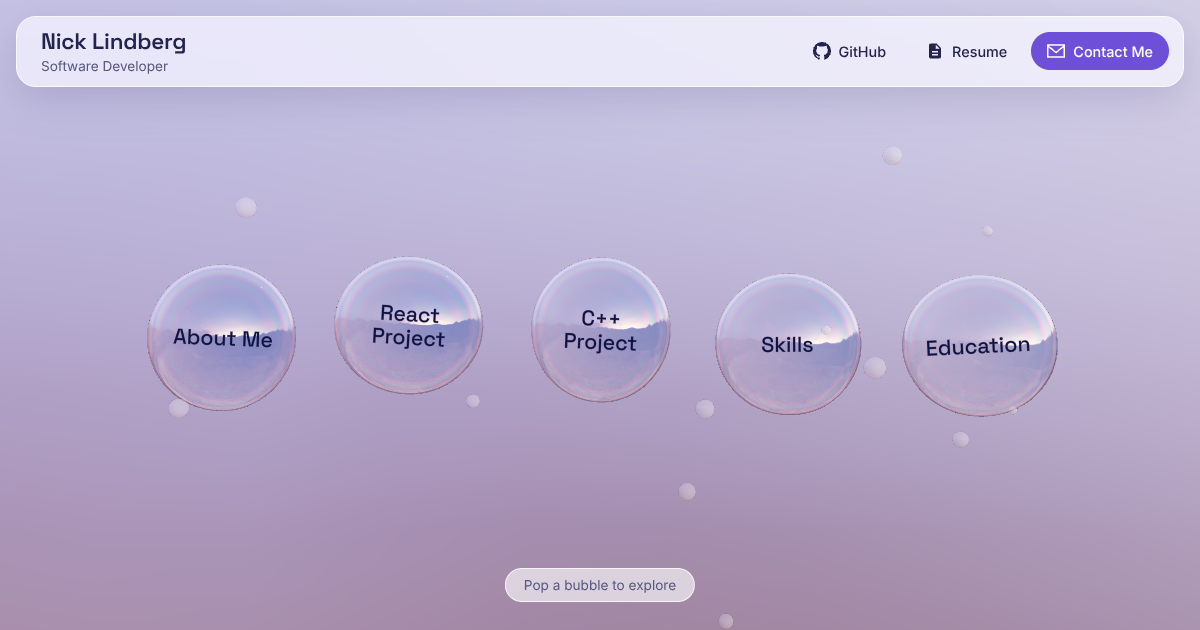
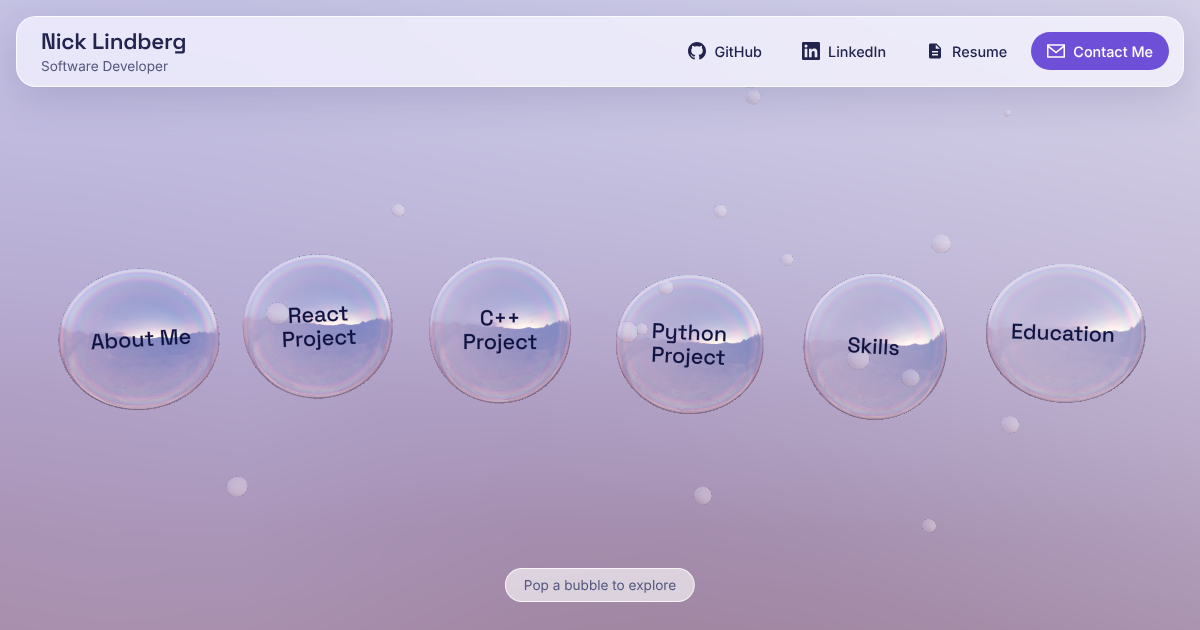
Feature Bracelet Studio as a Python Project bubble
Adds a sixth bubble for Bracelet Studio, using Nick's description. Wide
screens that can't fit six bubbles in one row now use the three-column
grid. Tests look sections up by label instead of by position, and the
share image shows the new bubble.

Claude-Session: https://claude.ai/code/session_018U5VzgtaHwiLeFrsMtNS7Z

diff --git a/portfoli_webpage/src/components/ContentPanel/ContentPanel.test.jsx b/portfoli_webpage/src/components/ContentPanel/ContentPanel.test.jsx
@@ -1,6 +1,9 @@
 import { render, screen, fireEvent } from '@testing-library/react';
 import { vi } from 'vitest';
 import ContentPanel from './ContentPanel';
+import { sections } from '../../content';
+
+const at = (label) => sections.findIndex((s) => s.label === label);
 
 test('shows the selected section with its stack and neighbours', () => {
   const onNavigate = vi.fn();
@@ -22,7 +25,7 @@ test('wraps around and closes with Back or Escape', () => {
   render(<ContentPanel index={0} onClose={onClose} onNavigate={onNavigate} />);
 
   fireEvent.keyDown(window, { key: 'ArrowLeft' });
-  expect(onNavigate).toHaveBeenCalledWith(4, 'prev');
+  expect(onNavigate).toHaveBeenCalledWith(sections.length - 1, 'prev');
 
   fireEvent.click(screen.getByRole('button', { name: 'Back' }));
   fireEvent.keyDown(window, { key: 'Escape' });
@@ -30,14 +33,14 @@ test('wraps around and closes with Back or Escape', () => {
 });
 
 test('lists both degrees in Education', () => {
-  render(<ContentPanel index={4} onClose={() => {}} onNavigate={() => {}} />);
+  render(<ContentPanel index={at('Education')} onClose={() => {}} onNavigate={() => {}} />);
   expect(screen.getByText('Michigan State University')).toBeInTheDocument();
   expect(screen.getByText('Northern Michigan University')).toBeInTheDocument();
   expect(screen.getByText('In progress, 2026')).toBeInTheDocument();
 });
 
 test('shows honors and relevant coursework in Education', () => {
-  render(<ContentPanel index={4} onClose={() => {}} onNavigate={() => {}} />);
+  render(<ContentPanel index={at('Education')} onClose={() => {}} onNavigate={() => {}} />);
   expect(screen.getByRole('list', { name: 'Honors' })).toHaveTextContent('Dean’s List');
   expect(screen.getByText('Parallel and Distributed Processing')).toBeInTheDocument();
 });
@@ -54,14 +57,14 @@ test('shows the merge sort visualizer in the C++ project', () => {
 });
 
 test('opens as a dialog with focus on the section heading', () => {
-  render(<ContentPanel index={3} onClose={() => {}} onNavigate={() => {}} />);
+  render(<ContentPanel index={at('Skills')} onClose={() => {}} onNavigate={() => {}} />);
   expect(screen.getByRole('dialog', { name: 'Skills' })).toBeInTheDocument();
   expect(screen.getByRole('heading', { name: 'Skills' })).toHaveFocus();
 });
 
 test('keeps focus on the arrow used to move between sections', () => {
   render(<ContentPanel index={2} entrance="next" onClose={() => {}} onNavigate={() => {}} />);
-  expect(screen.getByRole('button', { name: /Skills/ })).toHaveFocus();
+  expect(screen.getByRole('button', { name: /Python Project/ })).toHaveFocus();
 });
 
 test('Tab cycles inside the open section', () => {
@@ -85,4 +88,10 @@ test('lists what each job involved and its stack', () => {
   render(<ContentPanel index={0} onClose={() => {}} onNavigate={() => {}} />);
   expect(screen.getByText(/WordPress sites from Figma designs/)).toBeInTheDocument();
   expect(screen.getAllByRole('list', { name: 'Tech stack' })).toHaveLength(2);
+});
+
+test('features Bracelet Studio as the Python project', () => {
+  render(<ContentPanel index={at('Python Project')} onClose={() => {}} onNavigate={() => {}} />);
+  expect(screen.getByRole('heading', { name: 'Bracelet Studio' })).toBeInTheDocument();
+  expect(screen.getByText(/Swap out just one color/)).toBeInTheDocument();
 });

diff --git a/portfoli_webpage/src/components/bubbles/bubbleGroup.jsx b/portfoli_webpage/src/components/bubbles/bubbleGroup.jsx
@@ -5,9 +5,12 @@ import { useThree } from '@react-three/fiber';
 import { sections } from '../../content';
 
 // Bubbles sit in a centred grid: one row on wide screens, three columns on
-// tablets and two on phones. The last row is centred when it isn't full.
-function gridLayout(aspect, count) {
-  const columns = aspect < 0.8 ? 2 : aspect < 1.3 ? 3 : count;
+// tablets and two on phones. A wide screen that can't fit the whole row also
+// gets three columns. The last row is centred when it isn't full.
+function gridLayout(aspect, viewWidth, count) {
+  let columns = aspect < 0.8 ? 2 : aspect < 1.3 ? 3 : count;
+  // Width of one row of radius-1 bubbles, plus a margin at each edge
+  if (columns === count && count * 2.6 - 0.6 + 1.2 > viewWidth) columns = 3;
   const radius = columns === 2 ? 0.8 : 1;
   const gap = columns === 2 ? 0.4 : 0.6;
   const step = radius * 2 + gap;
@@ -27,8 +30,8 @@ function gridLayout(aspect, count) {
 }
 
 export default function BubbleGroup({ onBubbleSelect, selectedBubble, returningBubble, focusedBubble, onLayout }) {
-  const { size, camera } = useThree();
-  const layout = gridLayout(size.width / size.height, sections.length);
+  const { size, camera, viewport } = useThree();
+  const layout = gridLayout(size.width / size.height, viewport.width, sections.length);
 
   // Tell the page where each bubble sits on screen, so content can float
   // back to it

diff --git a/portfoli_webpage/src/components/BubbleMenu/BubbleMenu.test.jsx b/portfoli_webpage/src/components/BubbleMenu/BubbleMenu.test.jsx
@@ -1,18 +1,20 @@
 import { render, screen, fireEvent } from '@testing-library/react';
 import { vi } from 'vitest';
 import BubbleMenu from './BubbleMenu';
+import { sections } from '../../content';
 
-const homes = Array.from({ length: 5 }, (_, i) => ({ x: 100 + i * 200, y: 300, radius: 80 }));
+const homes = Array.from({ length: sections.length }, (_, i) => ({ x: 100 + i * 200, y: 300, radius: 80 }));
 
 test('offers every bubble as a button', () => {
   const onSelect = vi.fn();
   render(<BubbleMenu homes={homes} onSelect={onSelect} />);
   const nav = screen.getByRole('navigation', { name: 'Sections' });
   expect(nav).toBeInTheDocument();
-  expect(screen.getAllByRole('button')).toHaveLength(5);
+  expect(screen.getAllByRole('button')).toHaveLength(sections.length);
 
   fireEvent.click(screen.getByRole('button', { name: 'Skills' }));
-  expect(onSelect).toHaveBeenCalledWith(3, homes[3]);
+  const skills = sections.findIndex((s) => s.label === 'Skills');
+  expect(onSelect).toHaveBeenCalledWith(skills, homes[skills]);
 });
 
 test('sits each button over its bubble', () => {

diff --git a/portfoli_webpage/src/content.js b/portfoli_webpage/src/content.js
@@ -60,6 +60,22 @@ export const sections = [
     ],
   },
   {
+    label: 'Python Project',
+    kicker: 'Python Project',
+    title: 'Bracelet Studio',
+    stack: ['Python'],
+    // From Nick (2026-11-04). The source site's name, the framework and any
+    // link are still to confirm, so they're left out.
+    summary:
+      'A web app for trying out colors on a bracelet pattern. It takes a design from a bracelet-making website and shows a preview of how it looks in different colors.',
+    highlights: [
+      'Generate a random set of colors for the whole pattern',
+      'Swap out just one color and keep the rest',
+      'Change the order the colors appear in',
+      'See every change in the preview straight away',
+    ],
+  },
+  {
     label: 'Skills',
     title: 'Skills',
     // Each skill names where it was used. Getz’s and the AVL tree are from

diff --git a/portfoli_webpage/index.html b/portfoli_webpage/index.html
@@ -19,7 +19,7 @@
     <meta property="og:image" content="https://niclindb.github.io/og-image.png" />
     <meta property="og:image:width" content="1200" />
     <meta property="og:image:height" content="630" />
-    <meta property="og:image:alt" content="Nick Lindberg's portfolio: five iridescent bubbles labelled About Me, React Project, C++ Project, Skills and Education" />
+    <meta property="og:image:alt" content="Nick Lindberg's portfolio: six iridescent bubbles labelled About Me, React Project, C++ Project, Python Project, Skills and Education" />
     <meta property="profile:first_name" content="Nick" />
     <meta property="profile:last_name" content="Lindberg" />
     <meta name="twitter:card" content="summary_large_image" />
